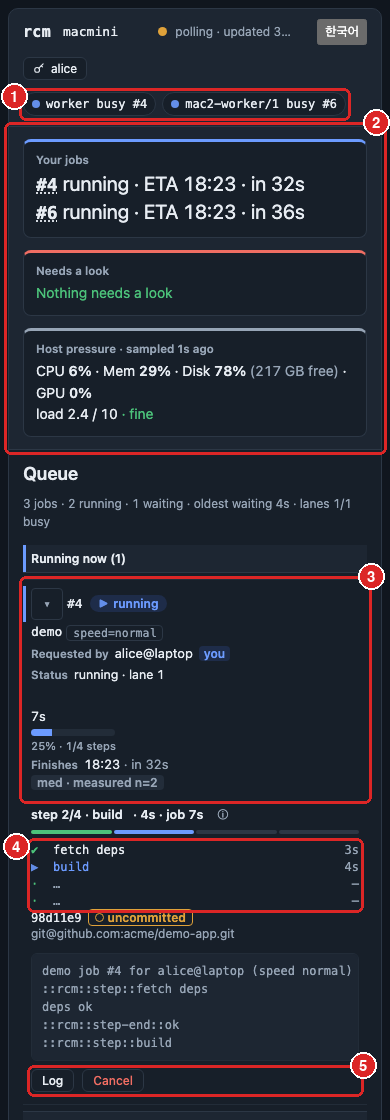
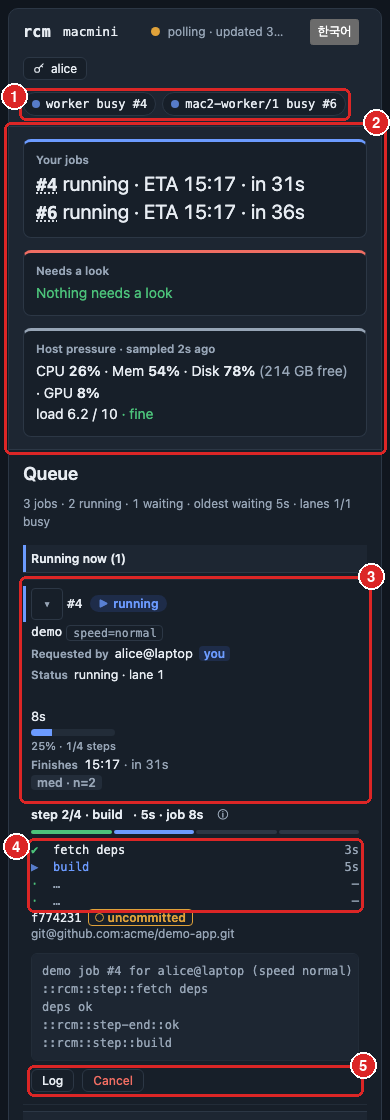
fix(web): 영어 신뢰도 배지를 high · n=12 로 줄인다 — 도착 칸이 152px 를 넘던 것
넓은 화면의 도착(ETA) 칸은 152px 로 못 박혀 있는데, 영어 배지
`high · measured n=12`(한 줄로 못 박힘)가 칸을 1240px 에서 154.5px,
n=1000 이면 171px 로 키웠다. n 의 자릿수가 바뀔 때마다 표가 칸 폭을
다시 나눠 행이 흔들렸고, 칸을 152px 로 강제하면 다른 영어 도착 문구가
두 줄로 꺾였다.

오너 결정(2026-11-19): 영어 배지를 `high · n=12` 로 줄이고, 원래 뜻은
배지의 툴팁(`title`)으로 옮긴다 — `high confidence: median of 12
measured runs`. 한국어 배지 「높음 · 최근 12회 기준」은 칸에 들어가
그대로 두고, 툴팁만 같은 모양으로 단다(「신뢰도 높음: 최근 실측 12회의
중앙값」). n 을 모르면 영어는 `high · n=—`, 한국어는 오늘 문구 그대로.
low · overdue · group wait 배지는 글도 툴팁도 바뀌지 않는다. 터미널
(`rcm top` · `rcm eta`)은 칸 폭 문제가 없어 `measured n=7` 그대로다.

테스트: tests/web/reason.test.js 에 짧은 배지 · 툴팁 · n=1/100/1000 ·
n 없음 · 숫자 아닌 n · 대체 계산과 shared 강등을 넣었고,
tests/test_web_layout_queue_edges.py 의
test_eta_column_holds_its_width_whatever_the_sample_count 가 390 ·
1240px × ko · en 에서 n=12 → 1000 → 1 갱신 동안 도착 칸 152px 이하 ·
행 높이 그대로 · 툴팁의 뜻을 단언한다 — 고치기 전에는 빨갰다.
문서: CHANGELOG · usage(영 · 한) 7번 · operating 한 줄, 배지가 보이는
스크린샷 넷을 다시 찍었다.

diff --git a/tests/web/reason.test.js b/tests/web/reason.test.js
@@ -257,12 +257,16 @@ describe("reasonText — unknown and null", () => {
 });
 
 describe("confidenceBadge", () => {
-  test("high · measured n=7", () => {
-    assert.deepEqual(rcm.confidenceBadge(row(412).estimate), { cls: "high", text: "high · measured n=7" });
+  // 영어 배지는 짧게(`high · n=7`), 원래 뜻은 마우스 올림 툴팁(`title`)이 말한다 — 152px 도착 칸을
+  // 넘지 않게(오너 결정 2026-11-19). 한국어 배지 글은 그대로다.
+  test("high · n=7, the full meaning on hover", () => {
+    assert.deepEqual(rcm.confidenceBadge(row(412).estimate), {
+      cls: "high", text: "high · n=7", title: "high confidence: median of 7 measured runs" });
   });
 
-  test("med · measured n=3", () => {
-    assert.deepEqual(rcm.confidenceBadge(row(409).estimate), { cls: "med", text: "med · measured n=3" });
+  test("med · n=3, the full meaning on hover", () => {
+    assert.deepEqual(rcm.confidenceBadge(row(409).estimate), {
+      cls: "med", text: "med · n=3", title: "med confidence: median of 3 measured runs" });
   });
 
   test("low · preset", () => {
@@ -291,6 +295,79 @@ describe("confidenceBadge", () => {
 
   test("estimate null → cls low, text 'low · —'", () => {
     assert.deepEqual(rcm.confidenceBadge(null), { cls: "low", text: `low · ${DASH}` });
+  });
+});
+
+describe("confidenceBadge — short English badge, full sentence on hover", () => {
+  const measured = (n, extra) => Object.assign(
+    { confidence: n != null && n >= 5 ? "high" : "med", source: "measured", sample_count: n }, extra);
+
+  test("high n=12 — en is short, ko keeps its sentence, both say the whole thing on hover", () => {
+    assert.deepEqual(rcm.confidenceBadge(measured(12), "en"), {
+      cls: "high", text: "high · n=12", title: "high confidence: median of 12 measured runs" });
+    assert.deepEqual(rcm.confidenceBadge(measured(12), "ko"), {
+      cls: "high", text: "높음 · 최근 12회 기준", title: "신뢰도 높음: 최근 실측 12회의 중앙값" });
+  });
+
+  test("the badge never says 'measured' again in English — only the tooltip does", () => {
+    [1, 3, 7, 12, 100, 1000].forEach((n) => {
+      const b = rcm.confidenceBadge(measured(n), "en");
+      assert.ok(!/measured/.test(b.text), `${n}: ${b.text}`);
+      assert.match(b.title, /measured/, `${n}: ${b.title}`);
+    });
+  });
+
+  test("one, three and four digits", () => {
+    const en = (n) => rcm.confidenceBadge(measured(n), "en");
+    assert.deepEqual(en(1), { cls: "med", text: "med · n=1", title: "med confidence: median of 1 measured run" });
+    assert.equal(en(100).text, "high · n=100");
+    assert.equal(en(1000).text, "high · n=1000");
+    assert.equal(en(1000).title, "high confidence: median of 1000 measured runs");
+    assert.equal(rcm.confidenceBadge(measured(1000), "ko").text, "높음 · 최근 1000회 기준");
+  });
+
+  test("no sample count — en keeps the same shape with a dash, ko keeps today's text", () => {
+    // 개수를 모르면 지어내지 않는다 — `—`. 한국어는 오늘의 문구 그대로(바꿀 이유가 폭이었다).
+    const est = { confidence: "high", source: "measured" };
+    assert.deepEqual(rcm.confidenceBadge(est, "en"), {
+      cls: "high", text: `high · n=${DASH}`, title: "high confidence: median of measured runs (count unknown)" });
+    assert.deepEqual(rcm.confidenceBadge(est, "ko"), {
+      cls: "high", text: "높음 · measured", title: "신뢰도 높음: 최근 실측의 중앙값 (횟수 모름)" });
+  });
+
+  test("a sample count that is not a number is unknown — never printed into the badge or the tooltip", () => {
+    const est = { confidence: "high", source: "measured", sample_count: '12"><b>x</b>' };
+    const b = rcm.confidenceBadge(est, "en");
+    assert.equal(b.text, `high · n=${DASH}`);
+    assert.ok(!/[<>"]/.test(b.text + b.title), b.title);
+  });
+
+  test("no server confidence — the fallback gives the same short badge (shared drops one step)", () => {
+    assert.deepEqual(rcm.confidenceBadge({ source: "measured", sample_count: 12 }, "en"), {
+      cls: "high", text: "high · n=12", title: "high confidence: median of 12 measured runs" });
+    assert.deepEqual(rcm.confidenceBadge({ source: "measured", sample_count: 12, shared: true }, "en"), {
+      cls: "med", text: "med · n=12", title: "med confidence: median of 12 measured runs" });
+    assert.deepEqual(rcm.confidenceBadge({ source: "measured", sample_count: 12, shared: true }, "ko"), {
+      cls: "med", text: "보통 · 최근 12회 기준", title: "신뢰도 보통: 최근 실측 12회의 중앙값" });
+  });
+
+  test("low · overdue · group wait · nothing are unchanged and carry no tooltip", () => {
+    ["en", "ko"].forEach((lang) => {
+      [
+        { confidence: "low", source: "preset", sample_count: 1 },
+        { confidence: "low", source: "measured", sample_count: 3, shared: true },
+        { confidence: "overdue", source: "measured", sample_count: 12 },
+        { confidence: "group wait", source: "measured", sample_count: 12 },
+        null,
+      ].forEach((est) => {
+        const b = rcm.confidenceBadge(est, lang);
+        assert.deepEqual(Object.keys(b).sort(), ["cls", "text"], `${lang} ${JSON.stringify(est)}`);
+      });
+    });
+    assert.equal(rcm.confidenceBadge({ confidence: "low", source: "measured", sample_count: 3 }, "en").text,
+      "low · measured");
+    assert.equal(rcm.confidenceBadge({ confidence: "overdue" }, "ko").text, "예상 초과");
+    assert.equal(rcm.confidenceBadge({ confidence: "group wait" }, "ko").text, "낮음 · 그룹 대기");
   });
 });
 

diff --git a/src/remote_ci_monitor/web/app.js b/src/remote_ci_monitor/web/app.js
@@ -384,8 +384,15 @@
     // `group wait` 는 서버가 보내는 문구다(core/queue.py) — 화면에서만 자기 말로 바꾼다
     if (c === "group wait") return { cls: "low", text: T(lang, "conf.group_wait") };
     if (c === "high" || c === "med") {
+      // 배지 글은 짧게, 원래 뜻(실측 n회의 중앙값)은 `title` 로 — 영어 `· measured n=12` 가 152px
+      // 도착 칸을 넘겨 n 의 자릿수마다 표가 칸 폭을 다시 나눴다(오너 결정 2026-11-19).
       var word = T(lang, "conf." + c);
-      return { cls: c, text: n != null ? T(lang, "conf.measured", { conf: word, n: n }) : word + " · measured" };
+      if (n == null) {
+        return { cls: c, text: T(lang, "conf.measured_no_n", { conf: word, dash: DASH }),
+          title: T(lang, "conf.measured_no_n_title", { conf: word }) };
+      }
+      return { cls: c, text: T(lang, "conf.measured", { conf: word, n: n }),
+        title: T(lang, "conf.measured_title", { conf: word, n: n }) };
     }
     return { cls: "low", text: T(lang, "conf.source", { source: est.source || DASH }) };
   }
@@ -3829,7 +3836,7 @@
     if (bar) elapsedCell += bar;
     var eta = etaText(row, tz(), now(), L());
     var conf = confidenceBadge(est, L());
-    var etaCell = '<span class="eta"><span class="clk">' + esc(eta.clock) + "</span>" + (eta.rel ? ' <span class="in">· ' + esc(eta.rel) + "</span>" : "") + '</span><br><span class="conf ' + esc(conf.cls) + '">' + esc(conf.text) + "</span>";
+    var etaCell = '<span class="eta"><span class="clk">' + esc(eta.clock) + "</span>" + (eta.rel ? ' <span class="in">· ' + esc(eta.rel) + "</span>" : "") + '</span><br><span class="conf ' + esc(conf.cls) + '"' + (conf.title ? ' title="' + esc(conf.title) + '"' : "") + ">" + esc(conf.text) + "</span>";
     if (est.overdue && !est.stuck) etaCell = '<span class="eta">' + DASH + '</span><br><span class="conf over">' + esc(tr("eta.overdue")) + "</span>";
     var source = sourceHtml(row, L(), false);
     // 칸마다 번역된 라벨(Codex 가독성 검토 4번) — 폰에서 머리줄이 사라지면 긴 값들이 한 덩어리로

diff --git a/src/remote_ci_monitor/web/i18n.js b/src/remote_ci_monitor/web/i18n.js
@@ -511,7 +511,12 @@
     "conf.low": "low",
     "conf.overdue": "overdue",
     "conf.group_wait": "low · group wait",
-    "conf.measured": function (a) { return a.conf + " · measured n=" + a.n; },
+    // 배지는 짧게 — 152px 도착 칸에 한 줄로 들어가야 한다(`· measured n=12` 는 칸을 키웠다).
+    // 원래 뜻은 마우스 올림 툴팁(`conf.measured_title`)이 말한다.
+    "conf.measured": function (a) { return a.conf + " · n=" + a.n; },
+    "conf.measured_no_n": function (a) { return a.conf + " · n=" + a.dash; },
+    "conf.measured_title": function (a) { return a.conf + " confidence: median of " + a.n + " measured run" + (a.n === 1 ? "" : "s"); },
+    "conf.measured_no_n_title": function (a) { return a.conf + " confidence: median of measured runs (count unknown)"; },
     "conf.source": function (a) { return "low · " + a.source; },
     "conf.low_dash": function (a) { return "low · " + a.dash; },
     "eta.after": function (a) { return "after #" + a.id; },
@@ -1576,6 +1581,10 @@
     "conf.overdue": "예상 초과",
     "conf.group_wait": "낮음 · 그룹 대기",
     "conf.measured": function (a) { return a.conf + " · 최근 " + a.n + "회 기준"; },
+    // 개수를 모를 때는 오늘의 문구 그대로 — `measured` 는 `낮음 · measured` 처럼 근거의 이름이다
+    "conf.measured_no_n": function (a) { return a.conf + " · measured"; },
+    "conf.measured_title": function (a) { return "신뢰도 " + a.conf + ": 최근 실측 " + a.n + "회의 중앙값"; },
+    "conf.measured_no_n_title": function (a) { return "신뢰도 " + a.conf + ": 최근 실측의 중앙값 (횟수 모름)"; },
     "conf.source": function (a) { return "낮음 · " + a.source; },
     "conf.low_dash": function (a) { return "낮음 · " + a.dash; },
     "eta.after": function (a) { return "#" + a.id + " 다음"; },

diff --git a/tests/test_web_layout_queue_edges.py b/tests/test_web_layout_queue_edges.py
@@ -810,6 +810,104 @@ def test_rows_keep_their_height_through_ticks_and_updates(tmp_path, page_now):
     )
 
 
+# ── 신뢰도 배지: 표본 수의 자릿수가 도착 칸을 키우지 않는다 ───────────────────────────
+
+# 영어 배지 `high · measured n=12`(약 138px, 한 줄로 못 박힘)가 152px 도착 칸을 넘게 키웠고, n 의
+# 자릿수가 바뀔 때마다 표가 칸 폭을 다시 나눠 행이 흔들렸다. 영어 배지는 `high · n=12` 로 줄고,
+# 원래 뜻은 마우스 올림 툴팁(`title`)이 말한다(오너 결정 2026-11-19). 한국어 배지는 그대로다.
+ETA_COL_PX = 152
+
+ETA_JS = """
+(() => {
+  const th = document.querySelector('#queue table.q th:nth-child(6)');
+  const cells = [...document.querySelectorAll('#queue tr[data-job]:not(.expanded) td.eta')];
+  return {
+    th: th ? th.getBoundingClientRect().width : null,
+    cells: cells.map((td) => {
+      const c = td.querySelector('.conf');
+      return {job: td.closest('tr').getAttribute('data-job'),
+        w: td.getBoundingClientRect().width,
+        cls: c ? c.className : '', text: c ? c.textContent : '',
+        title: c ? c.getAttribute('title') : null};
+    }),
+  };
+})()
+"""
+
+
+def sampled_doc(n: int) -> dict:
+    """긴 글 장면의 실측 행마다 표본 수를 `n` 으로 — 서버의 규칙대로 n ≥ 5 면 high."""
+    doc = long_text_doc()
+    for row in doc["pools"][0]["queue"]:
+        est = row.get("estimate") or {}
+        if est.get("source") == "measured" and est.get("confidence") in ("high", "med"):
+            est["sample_count"] = n
+            est["confidence"] = "high" if n >= 5 else "med"
+    return doc
+
+
+def eta_problems(m: dict, n: int, lang: str, width: int) -> list[str]:
+    bad = []
+    if width > PHONE_MAX:
+        if m["th"] is None or m["th"] > ETA_COL_PX + 0.5:
+            bad.append(f"도착 칸 머리가 {m['th']}px — {ETA_COL_PX}px 를 넘었다")
+        bad += [
+            f"#{c['job']} 도착 칸 {c['w']:.1f}px ({c['text']})"
+            for c in m["cells"]
+            if c["w"] > ETA_COL_PX + 0.5
+        ]
+    word = {"en": "median of", "ko": "중앙값"}[lang]
+    rated = [c for c in m["cells"] if " high" in " " + c["cls"] or " med" in " " + c["cls"]]
+    if not rated:
+        bad.append("high · med 배지가 하나도 없다 — 장면이 시험하는 것을 그리지 않는다")
+    for c in rated:
+        if f"{n}" not in c["text"]:
+            bad.append(f"#{c['job']} 배지에 n={n} 이 없다: {c['text']}")
+        if lang == "en" and "measured" in c["text"]:
+            bad.append(f"#{c['job']} 영어 배지가 아직 길다: {c['text']}")
+        if not c["title"] or word not in c["title"] or f"{n}" not in c["title"]:
+            bad.append(f"#{c['job']} 배지 툴팁이 뜻을 말하지 않는다: {c['title']!r}")
+    return bad
+
+
+def test_eta_column_holds_its_width_whatever_the_sample_count(tmp_path):
+    """n=12 → n=1000(자릿수가 바뀐다) → n=1 로 갱신해도 도착 칸은 152px 그대로, 행 높이 · 위치도
+    그대로다. 배지 툴팁은 두 언어 모두 원래 뜻(실측 n회의 중앙값)을 말한다."""
+    served = Served("long-text")
+    found: dict[tuple[int, str], list[str]] = {}
+    try:
+        with Chrome(tmp_path / "chrome-conf", window="1280,900") as c:
+            for width, lang in CASES:
+                served.swap(sampled_doc(12))
+                open_scene(c, served, width, lang)
+                bad = eta_problems(c.eval(ETA_JS), 12, lang, width)
+                before = c.eval(ROWS_JS)
+                for n in (1000, 1):
+                    served.swap(sampled_doc(n))
+                    refetch(
+                        c,
+                        "[...document.querySelectorAll('#queue .conf.high, #queue .conf.med')]"
+                        f".every((e) => /\\b{n}\\b/.test(e.textContent))",
+                    )
+                    bad += [f"n={n}: {p}" for p in eta_problems(c.eval(ETA_JS), n, lang, width)]
+                    after = c.eval(ROWS_JS)
+                    for key, was in before.items():
+                        now = after.get(key)
+                        if now is None:
+                            bad.append(f"n={n}: {key} 행이 사라졌다")
+                        elif abs(now["h"] - was["h"]) > 1 or abs(now["top"] - was["top"]) > 1:
+                            bad.append(f"n={n}: {key} {was} → {now}")
+                shoot(c, "conf-badge", width, lang)
+                assert c.page_errors() == []
+                if bad:
+                    found[(width, lang)] = bad
+    finally:
+        served.close()
+    assert not found, "신뢰도 배지가 도착 칸을 흔든다:\n" + "\n".join(
+        f"  {lang} @ {width}px\n    " + "\n    ".join(b) for (width, lang), b in found.items()
+    )
+
+
 # ── 최근 행: 다른 풀의 칩이 이름 칸을 통째로 말줄임하지 않는다 ─────────────────────
 
 # 진짜 dev 서버(2026-11-17 최종 검증)에서 1240px 최근 행이 `gate …` 로 보였다. 이름은 네 글자인데

diff --git a/docs/usage.ko.md b/docs/usage.ko.md
@@ -334,8 +334,9 @@ rcm artifacts 412 --fetch --output ./out   # 지정한 디렉터리에 쓴다
    오른다. 멈춰 있다가 새로고침 때 한 번에 뛰지 않는다. 로그 꼬리와 **로그** 버튼도 같은 블록에
    있다. **취소**는 여기 숨지 않는다 — 접힌 행에 그대로 있어서 폭주하는 작업을 한 번에 세운다.
 6. **기다리는 작업**과 큐에서의 순번.
-7. **ETA 와 confidence.** `high` 는 실제 5회 이상의 중앙값, `low` 는 프리셋 기반 추측, `—` 는
-   모른다는 뜻이다. 아는 척하지 않는다.
+7. **ETA 와 confidence.** `high` 는 실제 5회 이상의 중앙값이고 `n=12` 가 그 횟수다(배지에
+   마우스를 올리면 문장으로 나온다). `low` 는 프리셋 기반 추측, `—` 는 모른다는 뜻이다. 아는 척하지
+   않는다.
 8. **다른 풀.** 자기 워커와 자기 큐를 갖는다. **코드 출처** 칸에는 커밋만 남는다 — 저장소 주소는
    행마다 같은 값이 되풀이되므로 펼친 블록에 있다.
 

diff --git a/docs/usage.md b/docs/usage.md
@@ -358,8 +358,9 @@ Open `http://<build-machine>:8787/` — nothing to install, and it works on a ph
    refreshes. The log tail and the **Log** button are in the same block. **Cancel** does not hide
    there: it stays in the row while the row is folded, so stopping a runaway job is one tap.
 6. **A waiting job**, with its position in the queue.
-7. **The ETA and its confidence.** `high` is a median of five or more real runs; `low` is a guess
-   from the preset; `—` means it will not pretend to know.
+7. **The ETA and its confidence.** `high` is a median of five or more real runs, and `n=12` says
+   how many (hover the badge for the whole sentence); `low` is a guess from the preset; `—` means
+   it will not pretend to know.
 8. **Another pool**, with its own workers and queue. The **Source** column shows the commit only;
    the repository it came from is in the expanded block, since every row usually repeats it.
 

diff --git a/CHANGELOG.md b/CHANGELOG.md
@@ -7,6 +7,15 @@ of a key bumps that number and is listed here.
 
 ## [Unreleased]
 
+### Changed
+- **The web queue's English confidence badge is shorter.** `high · measured n=12` became
+  `high · n=12`, and hovering the badge spells it out (`high confidence: median of 12 measured
+  runs`). The long badge made the arrival column wider than its fixed 152 px, and every time the
+  sample count gained a digit the table re-divided its columns and the rows shifted. The Korean
+  badge (`높음 · 최근 12회 기준`) fits and keeps its text; it gets the same tooltip. `rcm top` and
+  `rcm eta` still print `measured n=12`.
+  ([#212](https://github.com/monocsp/remote_ci_monitor/pull/212))
+
 ## [0.6.1] - 2026-11-19
 
 ### Fixed

diff --git a/docs/operating.md b/docs/operating.md
@@ -465,7 +465,8 @@ bundles rather than evicting bundles somebody is still waiting for; the affected
 
 ## Why the numbers can be wrong
 
-- ETA source `default`/`preset` means no measurements yet; `measured n=7` is the median of 7 real runs.
+- ETA source `default`/`preset` means no measurements yet; `measured n=7` is the median of 7 real runs
+  (the web badge says `high · n=7` and spells it out on hover).
 - A job sharing the machine with another job takes longer than a median measured from runs that
   had it alone, so the confidence badge drops one step while that is true. The estimate itself is
   not padded — a guessed slowdown factor would be a number nobody measured.
